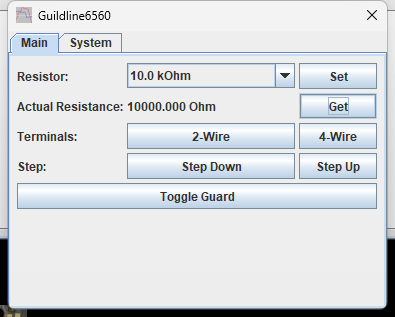
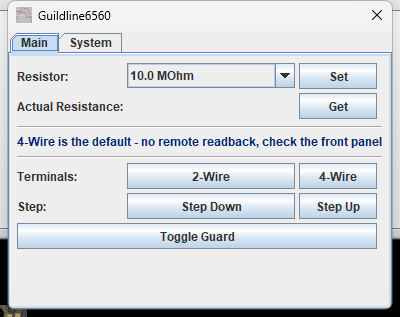
Guildline 6560 1.2: pop the 4-wire-default note out of the tooltip
The Terminals tip was one long sentence carrying the fact that 4-wire is
the instrument's default and there is no remote readback for the state.
That's now a short tip plus a sunken-line/bold-label section header
directly above the control, matching the section-header framing style
used elsewhere in this driver collection (e.g. the Agilent 531XXA
driver), so the note is visible without hovering.

diff --git a/README.md b/README.md
@@ -26,7 +26,7 @@ Discussion and support for TestController itself is on the EEVblog thread
 | [Agilent / Keysight E364xA](drivers/HP_Agilent_E364xA/) | Agilent / Keysight E3640A–E3645A single-output DC power supply | GPIB / RS-232 | 1.3 | On hardware |
 | [Agilent 33250A](drivers/Agilent_33250A/) | Agilent / Keysight 33250A 80 MHz function / arbitrary waveform generator | GPIB / RS-232 | 1.0 | As shipped |
 | [Keithley 200X](drivers/Keithley_200X/) | Keithley 2001, 2001M, 2002 bench multimeter | GPIB | 1.0 | As shipped |
-| [Guildline 6560](drivers/Guildline_6560/) | Guildline Instruments 6560 precision resistance calibrator, 0 Ω–100 MΩ | GPIB | 1.1 | On hardware |
+| [Guildline 6560](drivers/Guildline_6560/) | Guildline Instruments 6560 precision resistance calibrator, 0 Ω–100 MΩ | GPIB | 1.2 | On hardware |
 | [Leo Bodnar LBE-1420](drivers/LeoBodnar_LBE-1420/) | Leo Bodnar LBE-1420 GPS/GNSS receiver, read-only NMEA | Serial | 1.2 | Shipped, renamed |
 
 **On hardware** — exercised against the instrument, limits read back from it.

diff --git a/drivers/Guildline_6560/README.md b/drivers/Guildline_6560/README.md
@@ -10,7 +10,7 @@ driver's read timeout and update delay.
 | | |
 | --- | --- |
 | **Driver** | [`Guildline_6560.txt`](Guildline_6560.txt) |
-| **Revision** | 1.1 |
+| **Revision** | 1.2 |
 | **Interface** | GPIB |
 | **Instrument notes** | [`instrument-notes.md`](instrument-notes.md) |
 
@@ -27,7 +27,8 @@ whole point of a calibration standard.
 
 `Terminals` switches between 2-wire and 4-wire measurement. **The instrument has no
 remote query for which one is currently active** — if in doubt, check the 2-TERMINAL /
-4-TERMINAL LED on the front panel. 4-wire is the default after a Device Clear.
+4-TERMINAL LED on the front panel. 4-wire is the default after a Device Clear, which is
+called out directly above the control since there is no other way to see it in TestController.
 
 `Step Down` / `Step Up` move to the adjacent standard in the 19-value sequence.
 `Toggle Guard` switches the guard relay connection.
